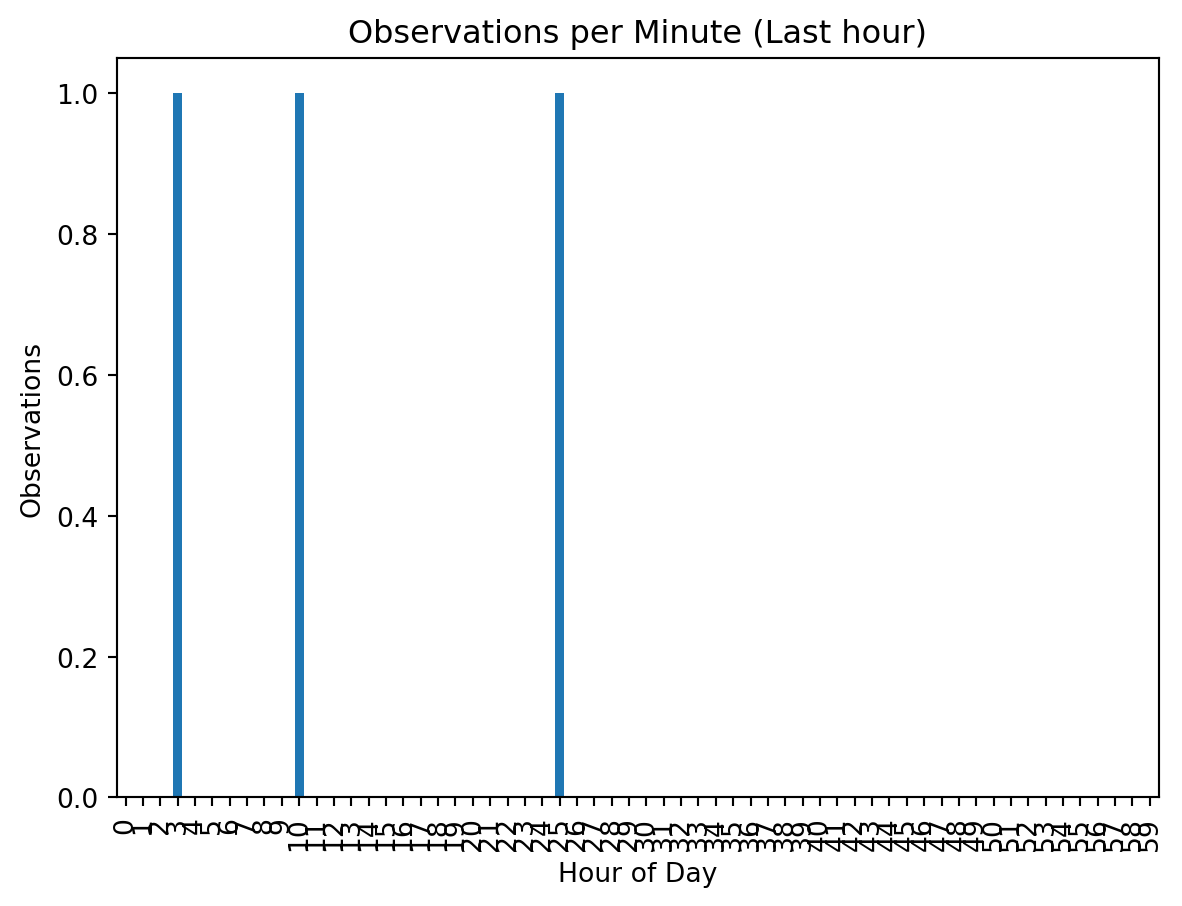
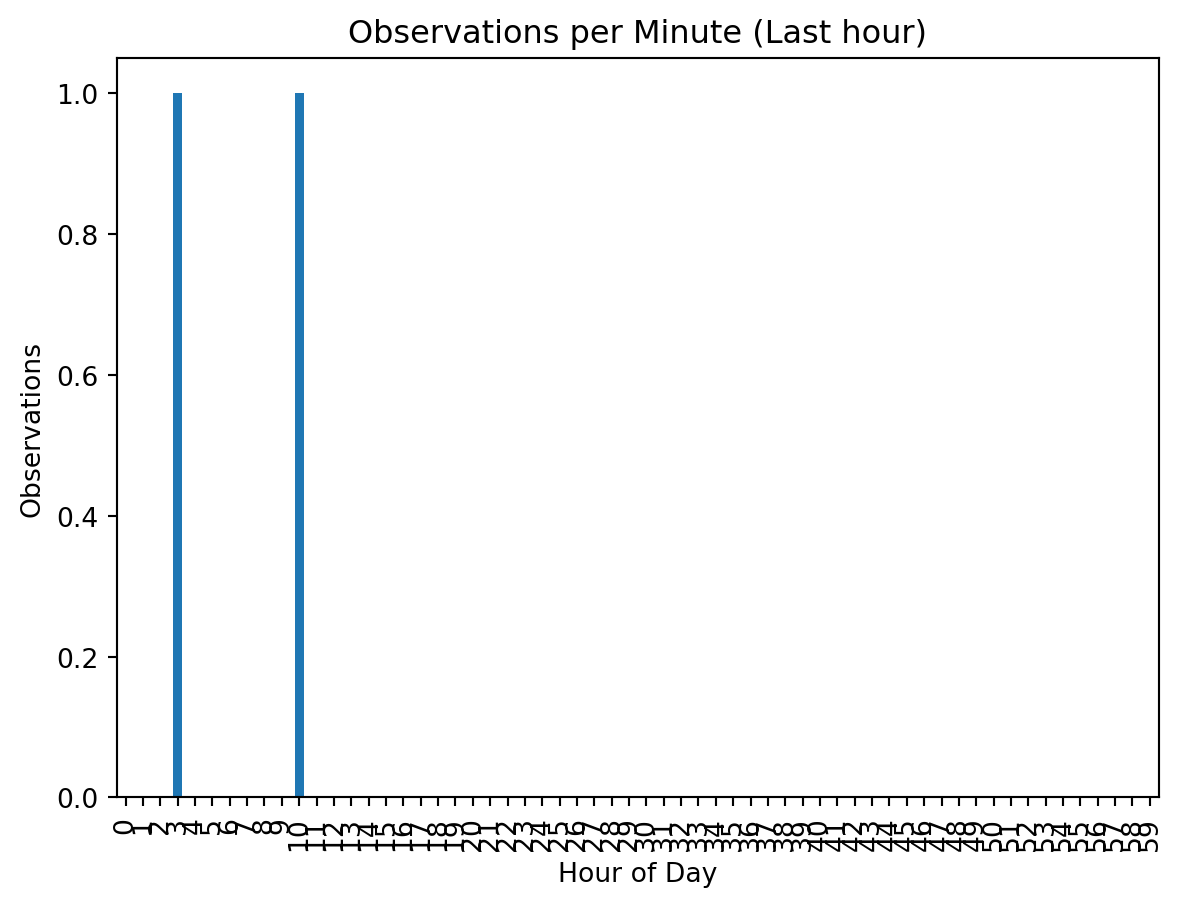
Built site for gh-pages

Changed region(s): [[0.4569, 0.0927, 0.4873, 0.8962]]

diff --git a/day_summary.html b/day_summary.html
@@ -145,7 +145,7 @@ ul.task-list li input[type="checkbox"] {
 </header>
 
 
-<div id="df98e4c2" class="cell" data-execution_count="1">
+<div id="ed8e6978" class="cell" data-execution_count="1">
 <div class="cell-output cell-output-stdout">
 <pre><code>Heggenmus — 123
 Roodborst — 69
@@ -153,29 +153,27 @@ Pimpelmees — 31
 Kolgans — 21
 Brandgans — 15
 Ekster — 8
-Meerkoet — 5
-Woudaap — 3
+Meerkoet — 4
 Kleine Rietgans — 3
+Woudaap — 3
 Waterral — 2
-Wintertaling — 2
-Zanglijster — 2
 Wilde Zwaan — 2
-Kerkuil — 1
+Zanglijster — 2
 Kwartel — 1
 Kraanvogel — 1
 Koperwiek — 1
 Koolmees — 1
-Kievit — 1
-Dwergooruil — 1
 Houtduif — 1
-Putter — 1
-Verreaux' Duif — 1
+Kerkuil — 1
+Dwergooruil — 1
+Oeverloper — 1
 Snor — 1
 Reuzenstern — 1
 Raaf — 1
-Oeverloper — 1
-Waterhoen — 1
+Putter — 1
 Wielewaal — 1
+Waterhoen — 1
+Verreaux' Duif — 1
 Zwarte Roodstaart — 1</code></pre>
 </div>
 <div class="cell-output cell-output-display">

diff --git a/index.html b/index.html
@@ -145,11 +145,10 @@ ul.task-list li input[type="checkbox"] {
 </header>
 
 
-<div id="ed22bc36" class="cell" data-execution_count="1">
+<div id="d0075190" class="cell" data-execution_count="1">
 <div class="cell-output cell-output-stdout">
 <pre><code>2026-02-22 23:10:35.113890 — Verreaux' Duif (confidence: 0.90)
-2026-02-22 23:03:44.965100 — Kraanvogel (confidence: 0.94)
-2026-02-22 22:25:16.652433 — Raaf (confidence: 0.79)</code></pre>
+2026-02-22 23:03:44.965100 — Kraanvogel (confidence: 0.94)</code></pre>
 </div>
 </div>
 

diff --git a/last_hour.html b/last_hour.html
@@ -145,10 +145,9 @@ ul.task-list li input[type="checkbox"] {
 </header>
 
 
-<div id="93bb173f" class="cell" data-execution_count="1">
+<div id="b31f6c90" class="cell" data-execution_count="1">
 <div class="cell-output cell-output-stdout">
 <pre><code>Kraanvogel — 1
-Raaf — 1
 Verreaux' Duif — 1</code></pre>
 </div>
 <div class="cell-output cell-output-display">

diff --git a/stats.html b/stats.html
@@ -145,7 +145,7 @@ ul.task-list li input[type="checkbox"] {
 </header>
 
 
-<div id="ec2ee33b" class="cell" data-execution_count="1">
+<div id="7bd44231" class="cell" data-execution_count="1">
 <div class="cell-output cell-output-stdout">
 <pre><code>Heggenmus — 458
 Pimpelmees — 303

diff --git a/week_summary.html b/week_summary.html
@@ -145,7 +145,7 @@ ul.task-list li input[type="checkbox"] {
 </header>
 
 
-<div id="c69d9275" class="cell" data-execution_count="1">
+<div id="105ce70c" class="cell" data-execution_count="1">
 <div class="cell-output cell-output-stdout">
 <pre><code>Heggenmus — 458
 Pimpelmees — 303
